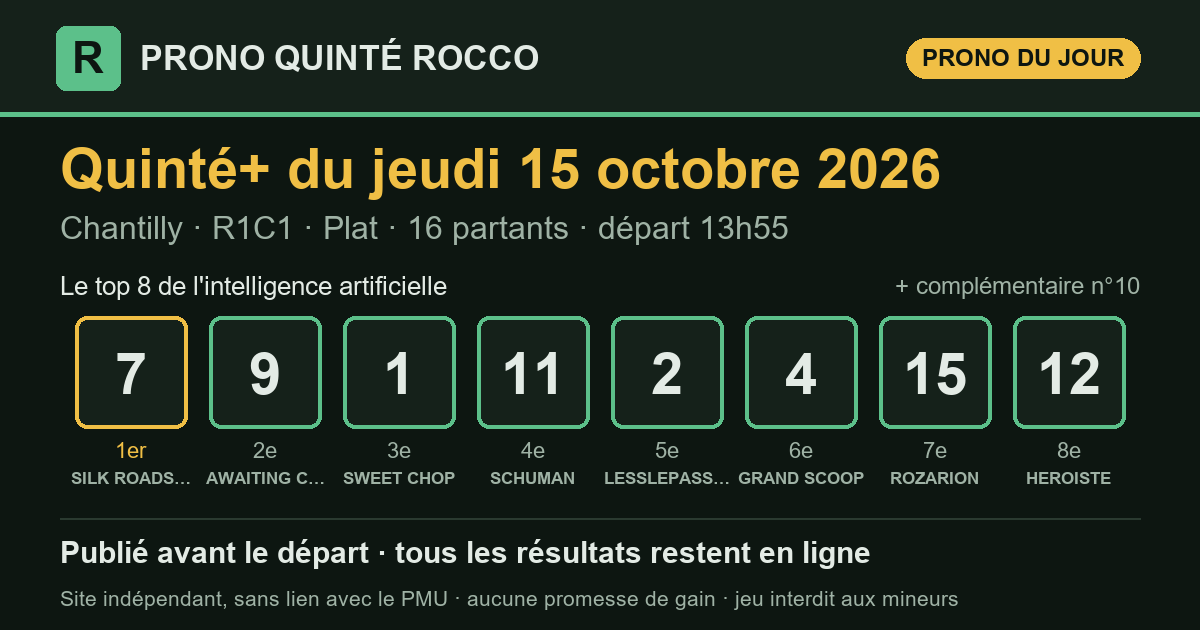
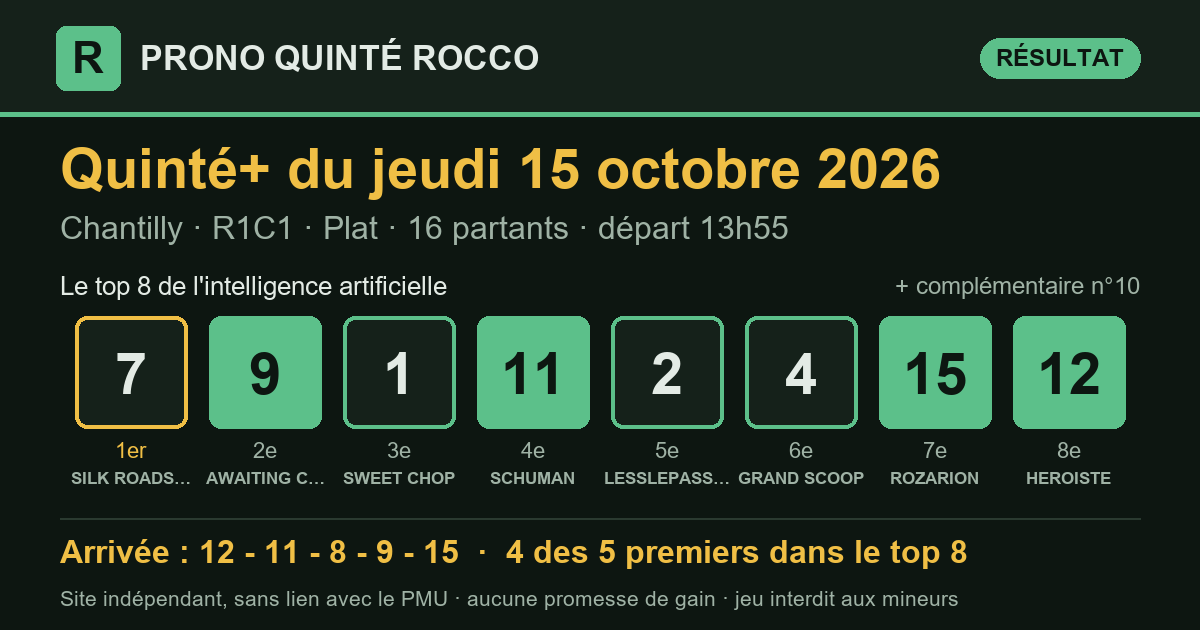
Prono Quinté+ 2026-10-15 Chantilly R1C1 — publié le 15/10/2026 14:57 (heure de Paris)

diff --git a/partants.html b/partants.html
@@ -3,7 +3,7 @@
 <head>
 <meta charset="utf-8">
 <meta name="viewport" content="width=device-width, initial-scale=1, viewport-fit=cover">
-<title>Partants du Quinté+ du jeudi 15 octobre 2026 — Prono Quinté Rocco</title>
+<title>Partants du Quinté+ du vendredi 16 octobre 2026 — Prono Quinté Rocco</title>
 <meta name="description" content="Les partants du prochain Quinté+ (programme officiel du PMU), avec le rang du prono IA et les liens vers les pronostics de la presse.">
 <link rel="canonical" href="https://prono-quinte-rocco.fr/partants.html">
 <link rel="stylesheet" href="style.css?v=3c55eb2c">
@@ -13,7 +13,7 @@
 <meta property="og:site_name" content="Prono Quinté Rocco">
 <meta property="og:locale" content="fr_FR">
 <meta property="og:type" content="website">
-<meta property="og:title" content="Partants du Quinté+ du jeudi 15 octobre 2026 — Prono Quinté Rocco">
+<meta property="og:title" content="Partants du Quinté+ du vendredi 16 octobre 2026 — Prono Quinté Rocco">
 <meta property="og:description" content="Les partants du prochain Quinté+ (programme officiel du PMU), avec le rang du prono IA et les liens vers les pronostics de la presse.">
 <meta property="og:url" content="https://prono-quinte-rocco.fr/partants.html">
 <meta name="twitter:card" content="summary">
@@ -29,100 +29,95 @@
   <p class="surtitre">Programme officiel du PMU</p>
   <h1>Les partants du prochain Quinté+</h1>
   <div class="fiche-course">
-    <p class="fiche-date">Jeudi 15 octobre 2026</p>
-    <div class="fiche-rc"><span class="pastille" title="Réunion 1">R1</span><span class="pastille" title="Course 1">C1</span><span class="fiche-nom">Prix de la Vierge de Lorette</span></div>
-    <p class="meta">Chantilly · Plat · 1 200 m · 16 partants</p>
-    <p class="fiche-depart">Départ <b>13:55</b> <span>heure de Paris</span></p>
+    <p class="fiche-date">Vendredi 16 octobre 2026</p>
+    <div class="fiche-rc"><span class="pastille" title="Réunion 1">R1</span><span class="pastille" title="Course 4">C4</span><span class="fiche-nom">Prix Themis</span></div>
+    <p class="meta">Vincennes · Trot_attele · 2 850 m · 15 partants</p>
+    <p class="fiche-depart">Départ <b>20:15</b> <span>heure de Paris</span></p>
   </div>
   <p class="surtitre">Les pronostics ailleurs sur le web</p>
-  <div class="liens"><a class="lien-ext" href="https://www.turfoo.fr/programmes-courses/261015/reunion1-chantilly/course1-prix-de-la-vierge-de-lorette/pronostics-presse/" rel="noopener" target="_blank"><b>Les pronostics de la presse →</b><span>sur Turfoo (site extérieur)</span></a><a class="lien-ext" href="https://www.geny.com/programme/2026-10-15" rel="noopener" target="_blank"><b>Partants et pronostics →</b><span>programme du jour sur Geny (site extérieur)</span></a></div>
+  <div class="liens"><a class="lien-ext" href="https://www.turfoo.fr/programmes-courses/261016/reunion1-vincennes/course4-prix-themis/pronostics-presse/" rel="noopener" target="_blank"><b>Les pronostics de la presse →</b><span>sur Turfoo (site extérieur)</span></a><a class="lien-ext" href="https://www.geny.com/programme/2026-10-16" rel="noopener" target="_blank"><b>Partants et pronostics →</b><span>programme du jour sur Geny (site extérieur)</span></a></div>
   <div class="liste-boite"><table class="liste-partants">
     <thead><tr><th>N°</th><th>Cheval</th><th class="cote"><span class="long">Cote du matin</span><span class="court">Cote</span></th>
     <th class="ia"><span class="long">Prono IA</span><span class="court">IA</span></th></tr></thead>
     <tbody><tr>
   <td><span class="tapis petit">1</span></td>
-  <td><span class="cheval">SWEET CHOP</span><span class="sous">A.LEMAITRE · A.MURPHY (S)</span></td>
-  <td class="cote num">10,0</td>
-  <td class="ia"><span class="etat place">3<sup>e</sup></span></td>
+  <td><span class="cheval">TRETIAK</span><span class="sous">D. THOMAIN · Mme Maria TORNQVIST</span></td>
+  <td class="cote num">—</td>
+  <td class="ia">—</td>
 </tr><tr>
   <td><span class="tapis petit">2</span></td>
-  <td><span class="cheval">LESSLEPASSER</span><span class="sous">PC.BOUDOT · MME S.LANSLOTS</span></td>
-  <td class="cote num">14,0</td>
-  <td class="ia"><span class="etat place">5<sup>e</sup></span></td>
+  <td><span class="cheval">KIPHYLE DESBOIS</span><span class="sous">LILIAN BERTIN · P.Y. ROCHARD</span></td>
+  <td class="cote num">—</td>
+  <td class="ia">—</td>
 </tr><tr>
   <td><span class="tapis petit">3</span></td>
-  <td><span class="cheval">MISTER CHANG</span><span class="sous">H.JOURNIAC · Y.BARBEROT (S)</span></td>
-  <td class="cote num">17,0</td>
+  <td><span class="cheval">EMINENT KRONOS</span><span class="sous">F. NIVARD · J. UNTERSTEINER</span></td>
+  <td class="cote num">—</td>
   <td class="ia">—</td>
 </tr><tr>
   <td><span class="tapis petit">4</span></td>
-  <td><span class="cheval">GRAND SCOOP</span><span class="sous">E.HARDOUIN · G.MOSSE (S)</span></td>
-  <td class="cote num">8,4</td>
-  <td class="ia"><span class="etat place">6<sup>e</sup></span></td>
+  <td><span class="cheval">KISS ME AGAIN</span><span class="sous">A. BARRIER · K. CHAMPENOIS</span></td>
+  <td class="cote num">—</td>
+  <td class="ia">—</td>
 </tr><tr>
   <td><span class="tapis petit">5</span></td>
-  <td><span class="cheval">HELLO CAREL</span><span class="sous">M.MARQUETTE · G.MOSSE (S)</span></td>
-  <td class="cote num">22,0</td>
+  <td><span class="cheval">KOMERE DE CORDAY</span><span class="sous">GUILLAUME MARTIN · ARNAUD DESMOTTES</span></td>
+  <td class="cote num">—</td>
   <td class="ia">—</td>
 </tr><tr>
   <td><span class="tapis petit">6</span></td>
-  <td><span class="cheval">MAI DIRE MAI</span><span class="sous">C.DEMURO · G.BIETOLINI</span></td>
-  <td class="cote num">17,0</td>
+  <td><span class="cheval">DOMENIK JET</span><span class="sous">M. ABRIVARD · W. NIMCZYK</span></td>
+  <td class="cote num">—</td>
   <td class="ia">—</td>
 </tr><tr>
   <td><span class="tapis petit">7</span></td>
-  <td><span class="cheval">SILK ROADSTER</span><span class="sous">M.VELON · A.MURPHY (S)</span></td>
-  <td class="cote num">6,6</td>
-  <td class="ia"><span class="etat place">1<sup>er</sup></span></td>
+  <td><span class="cheval">KEROSEN DU GERS</span><span class="sous">E. LELIEVRE · E. LELIEVRE</span></td>
+  <td class="cote num">—</td>
+  <td class="ia">—</td>
 </tr><tr>
   <td><span class="tapis petit">8</span></td>
-  <td><span class="cheval">PRINCE AUBOIS</span><span class="sous">T.TRULLIER · MME S.PENOT</span></td>
-  <td class="cote num">36,0</td>
+  <td><span class="cheval">KERALDO</span><span class="sous">CH. MARTENS · A. VANBERGHEN</span></td>
+  <td class="cote num">—</td>
   <td class="ia">—</td>
 </tr><tr>
   <td><span class="tapis petit">9</span></td>
-  <td><span class="cheval">AWAITING CHRISTMAS</span><span class="sous">T.BACHELOT · V.LUKA</span></td>
-  <td class="cote num">8,1</td>
-  <td class="ia"><span class="etat place">2<sup>e</sup></span></td>
+  <td><span class="cheval">MAX OCCAGNES</span><span class="sous">D. LOCQUENEUX · D. LOCQUENEUX</span></td>
+  <td class="cote num">—</td>
+  <td class="ia">—</td>
 </tr><tr>
   <td><span class="tapis petit">10</span></td>
-  <td><span class="cheval">ROYALWOOD</span><span class="sous">F.VALLE SKAR · MME C.BARANDE BARBE</span></td>
-  <td class="cote num">10,0</td>
-  <td class="ia"><span class="etat place">compl.</span></td>
+  <td><span class="cheval">RED HOT ROADSTER</span><span class="sous">F. OUVRIE · J. WESTHOLM</span></td>
+  <td class="cote num">—</td>
+  <td class="ia">—</td>
 </tr><tr>
   <td><span class="tapis petit">11</span></td>
-  <td><span class="cheval">SCHUMAN</span><span class="sous">A.MADAMET · F.MONNIER (S)</span></td>
-  <td class="cote num">8,7</td>
-  <td class="ia"><span class="etat place">4<sup>e</sup></span></td>
+  <td><span class="cheval">READLY LAVEC</span><span class="sous">B. ROCHARD · O.J. ANDERSSON</span></td>
+  <td class="cote num">—</td>
+  <td class="ia">—</td>
 </tr><tr>
   <td><span class="tapis petit">12</span></td>
-  <td><span class="cheval">HEROISTE</span><span class="sous">M.BARZALONA · FH.GRAFFARD (S)</span></td>
-  <td class="cote num">24,0</td>
-  <td class="ia"><span class="etat place">8<sup>e</sup></span></td>
+  <td><span class="cheval">JALENDRA DE MALAC</span><span class="sous">M. MOTTIER · A.PH. GRIMAULT</span></td>
+  <td class="cote num">—</td>
+  <td class="ia">—</td>
 </tr><tr>
   <td><span class="tapis petit">13</span></td>
-  <td><span class="cheval">ASHERAH</span><span class="sous">A.CRASTUS · J.REYNIER (S)</span></td>
-  <td class="cote num">28,0</td>
+  <td><span class="cheval">COLBERT WF</span><span class="sous">E. RAFFIN · H.E. BONDO</span></td>
+  <td class="cote num">—</td>
   <td class="ia">—</td>
 </tr><tr>
   <td><span class="tapis petit">14</span></td>
-  <td><span class="cheval">YOKEN</span><span class="sous">S.PASQUIER · MME J.DUPONT-FAHN</span></td>
-  <td class="cote num">30,0</td>
+  <td><span class="cheval">KAMEHAMEHA</span><span class="sous">A. LHERETE · Antoine LHERETE</span></td>
+  <td class="cote num">—</td>
   <td class="ia">—</td>
 </tr><tr>
   <td><span class="tapis petit">15</span></td>
-  <td><span class="cheval">ROZARION</span><span class="sous">A.HAMELIN · M.DELZANGLES</span></td>
-  <td class="cote num">14,0</td>
-  <td class="ia"><span class="etat place">7<sup>e</sup></span></td>
-</tr><tr>
-  <td><span class="tapis petit">16</span></td>
-  <td><span class="cheval">SIMPLY LOVELY</span><span class="sous">L.GALLO · JM.BEGUIGNE</span></td>
-  <td class="cote num">32,0</td>
+  <td><span class="cheval">ELEGANCE KRONOS</span><span class="sous">A. ABRIVARD · L.CL. ABRIVARD</span></td>
+  <td class="cote num">—</td>
   <td class="ia">—</td>
 </tr></tbody>
   </table></div>
-  <p class="meta">Le rang du prono IA est celui publié sur ce site. Sous chaque cheval : jockey · entraîneur. Partants et cotes : programme
-  officiel du PMU, lu le 15/10 à 09:02 (heure de Paris). NP = non-partant.</p>
+  <p class="meta">Le prono IA de cette course sera publié le matin de la course, avant le départ. Sous chaque cheval : driver · entraîneur. Partants et cotes : programme
+  officiel du PMU, lu le 15/10 à 14:57 (heure de Paris). NP = non-partant.</p>
 </section>
 </main>
 <footer class="pied">

diff --git a/index.html b/index.html
@@ -16,7 +16,7 @@
 <meta property="og:title" content="Pronostic Quinté+ du jeudi 15 octobre 2026 — Prono Quinté Rocco">
 <meta property="og:description" content="Le pronostic du Quinté+ par intelligence artificielle, publié avant le départ, avec tous les résultats et le rendement réel.">
 <meta property="og:url" content="https://prono-quinte-rocco.fr/">
-<meta property="og:image" content="https://prono-quinte-rocco.fr/partage/2026-10-15.png?v=48c002b9">
+<meta property="og:image" content="https://prono-quinte-rocco.fr/partage/2026-10-15.png?v=79094276">
 <meta property="og:image:type" content="image/png">
 <meta property="og:image:width" content="1200">
 <meta property="og:image:height" content="630">
@@ -31,15 +31,15 @@
 </header>
 <main>
 <section class="une" aria-labelledby="t-jour">
-  <p class="surtitre">Quinté+ du jour</p>
+  <p class="surtitre">Dernier Quinté+</p>
   <h1 id="t-jour">Le prono du Quinté+, résultats compris</h1>
   <p class="chapo">Chaque matin, une intelligence artificielle classe les partants du
   Quinté+. Le classement est publié avant le départ, puis comparé à l'arrivée
   officielle. Tous les résultats restent en ligne, les bons comme les mauvais.</p>
   <article class="carte-course">
-  <div class="tete"><h2>Jeudi 15 octobre 2026</h2><span class="etat attente">arrivée en attente</span></div>
+  <div class="tete"><h2>Jeudi 15 octobre 2026</h2><span class="etat place">4 des 5 premiers dans le top 8</span></div>
   <p class="meta">Chantilly · <strong>R1C1</strong> · Plat · 16 partants · lisibilité <span class="note" aria-label="note 2 sur 5"><i class="on"></i><i class="on"></i><i class=""></i><i class=""></i><i class=""></i></span> 2/5</p>
-  <ol class="partants" aria-label="Classement du prono"><li><span class="rang">1<sup>er</sup></span><span class="tapis ">7</span><span class="nom">SILK ROADSTER</span></li><li><span class="rang">2<sup>e</sup></span><span class="tapis ">9</span><span class="nom">AWAITING CHRISTMAS</span></li><li><span class="rang">3<sup>e</sup></span><span class="tapis ">1</span><span class="nom">SWEET CHOP</span></li><li><span class="rang">4<sup>e</sup></span><span class="tapis ">11</span><span class="nom">SCHUMAN</span></li><li><span class="rang">5<sup>e</sup></span><span class="tapis ">2</span><span class="nom">LESSLEPASSER</span></li><li><span class="rang">6<sup>e</sup></span><span class="tapis ">4</span><span class="nom">GRAND SCOOP</span></li><li><span class="rang">7<sup>e</sup></span><span class="tapis ">15</span><span class="nom">ROZARION</span></li><li><span class="rang">8<sup>e</sup></span><span class="tapis ">12</span><span class="nom">HEROISTE</span></li><li><span class="rang">compl.</span><span class="tapis creux">10</span><span class="nom">ROYALWOOD</span></li></ol>
+  <ol class="partants" aria-label="Classement du prono"><li><span class="rang">1<sup>er</sup></span><span class="tapis ">7</span><span class="nom">SILK ROADSTER</span></li><li><span class="rang">2<sup>e</sup></span><span class="tapis plein">9</span><span class="nom">AWAITING CHRISTMAS</span></li><li><span class="rang">3<sup>e</sup></span><span class="tapis ">1</span><span class="nom">SWEET CHOP</span></li><li><span class="rang">4<sup>e</sup></span><span class="tapis plein">11</span><span class="nom">SCHUMAN</span></li><li><span class="rang">5<sup>e</sup></span><span class="tapis ">2</span><span class="nom">LESSLEPASSER</span></li><li><span class="rang">6<sup>e</sup></span><span class="tapis ">4</span><span class="nom">GRAND SCOOP</span></li><li><span class="rang">7<sup>e</sup></span><span class="tapis plein">15</span><span class="nom">ROZARION</span></li><li><span class="rang">8<sup>e</sup></span><span class="tapis plein">12</span><span class="nom">HEROISTE</span></li><li><span class="rang">compl.</span><span class="tapis creux">10</span><span class="nom">ROYALWOOD</span></li></ol>
   <div class="pied-carte"><span>Analysé le 15/10 à 08:47 · en ligne le 15/10 à 09:02 · départ à 13:55 (heure de Paris)</span><span><a href="quinte/2026-10-15.html">Détail de la course</a></span></div>
 </article>
   <div class="legende"><span><span class="tapis plein petit">4</span> numéro dans les 5 premiers</span>
@@ -62,7 +62,7 @@
 </section>
 <section class="bilan" aria-labelledby="t-bilan">
   <h2 id="t-bilan">Le bilan depuis le 8 septembre 2026</h2>
-  <div class="tableau chiffres"><div class="case"><span class="gros ">74 %</span><span class="lib">des arrivants trouvés dans le top 8</span><span class="ref">un top 8 tiré au hasard : 51 %</span></div><div class="case"><span class="gros ">86 %</span><span class="lib">des gagnants présents dans le top 8</span><span class="ref"></span></div><div class="case"><span class="gros ">53 %</span><span class="lib">1er du prono placé</span><span class="ref">sur 36 Quintés</span></div><div class="case"><span class="gros perte">0,96 €</span><span class="lib">rendus pour 1 € joué placé sur le 1er</span><span class="ref">rapports officiels PMU</span></div><div class="case"><span class="gros perte">0,43 €</span><span class="lib">rendus pour 1 € joué en Quinté+ combiné top 8</span><span class="ref">56 combinaisons, rapports PMU.fr, sur 36 Quintés</span></div></div>
+  <div class="tableau chiffres"><div class="case"><span class="gros ">75 %</span><span class="lib">des arrivants trouvés dans le top 8</span><span class="ref">un top 8 tiré au hasard : 51 %</span></div><div class="case"><span class="gros ">86 %</span><span class="lib">des gagnants présents dans le top 8</span><span class="ref"></span></div><div class="case"><span class="gros ">53 %</span><span class="lib">1er du prono placé</span><span class="ref">sur 36 Quintés</span></div><div class="case"><span class="gros perte">0,96 €</span><span class="lib">rendus pour 1 € joué placé sur le 1er</span><span class="ref">rapports officiels PMU</span></div><div class="case"><span class="gros perte">0,45 €</span><span class="lib">rendus pour 1 € joué en Quinté+ combiné top 8</span><span class="ref">56 combinaisons, rapports PMU.fr, sur 37 Quintés</span></div></div>
   <p class="avertissement">Moins de 1 € rendu pour 1 € joué : suivre ce prono à la lettre fait <strong>perdre de l'argent</strong> sur cette période. Il sert à analyser une course, pas à promettre un gain.</p>
 </section>
 </main>

diff --git a/quinte/2026-10-15.html b/quinte/2026-10-15.html
@@ -16,7 +16,7 @@
 <meta property="og:title" content="Pronostic Quinté+ du jeudi 15 octobre 2026 à Chantilly — Prono Quinté Rocco">
 <meta property="og:description" content="Prono Quinté+ du jeudi 15 octobre 2026 (Chantilly) : top 8, arrivée officielle et rapports PMU.fr.">
 <meta property="og:url" content="https://prono-quinte-rocco.fr/quinte/2026-10-15.html">
-<meta property="og:image" content="https://prono-quinte-rocco.fr/partage/2026-10-15.png?v=48c002b9">
+<meta property="og:image" content="https://prono-quinte-rocco.fr/partage/2026-10-15.png?v=79094276">
 <meta property="og:image:type" content="image/png">
 <meta property="og:image:width" content="1200">
 <meta property="og:image:height" content="630">
@@ -35,11 +35,19 @@
   <h1>Pronostic Quinté+ du jeudi 15 octobre 2026</h1>
   <p class="chapo">Chantilly · R1C1 · Plat · 16 partants</p>
   <article class="carte-course">
-  <div class="tete"><h2>Le prono : top 8 et complémentaire</h2><span class="etat attente">arrivée en attente</span></div>
+  <div class="tete"><h2>Le prono : top 8 et complémentaire</h2><span class="etat place">4 des 5 premiers dans le top 8</span></div>
   <p class="meta">Chantilly · <strong>R1C1</strong> · Plat · 16 partants · lisibilité <span class="note" aria-label="note 2 sur 5"><i class="on"></i><i class="on"></i><i class=""></i><i class=""></i><i class=""></i></span> 2/5</p>
-  <ol class="partants" aria-label="Classement du prono"><li><span class="rang">1<sup>er</sup></span><span class="tapis ">7</span><span class="nom">SILK ROADSTER</span></li><li><span class="rang">2<sup>e</sup></span><span class="tapis ">9</span><span class="nom">AWAITING CHRISTMAS</span></li><li><span class="rang">3<sup>e</sup></span><span class="tapis ">1</span><span class="nom">SWEET CHOP</span></li><li><span class="rang">4<sup>e</sup></span><span class="tapis ">11</span><span class="nom">SCHUMAN</span></li><li><span class="rang">5<sup>e</sup></span><span class="tapis ">2</span><span class="nom">LESSLEPASSER</span></li><li><span class="rang">6<sup>e</sup></span><span class="tapis ">4</span><span class="nom">GRAND SCOOP</span></li><li><span class="rang">7<sup>e</sup></span><span class="tapis ">15</span><span class="nom">ROZARION</span></li><li><span class="rang">8<sup>e</sup></span><span class="tapis ">12</span><span class="nom">HEROISTE</span></li><li><span class="rang">compl.</span><span class="tapis creux">10</span><span class="nom">ROYALWOOD</span></li></ol>
+  <ol class="partants" aria-label="Classement du prono"><li><span class="rang">1<sup>er</sup></span><span class="tapis ">7</span><span class="nom">SILK ROADSTER</span></li><li><span class="rang">2<sup>e</sup></span><span class="tapis plein">9</span><span class="nom">AWAITING CHRISTMAS</span></li><li><span class="rang">3<sup>e</sup></span><span class="tapis ">1</span><span class="nom">SWEET CHOP</span></li><li><span class="rang">4<sup>e</sup></span><span class="tapis plein">11</span><span class="nom">SCHUMAN</span></li><li><span class="rang">5<sup>e</sup></span><span class="tapis ">2</span><span class="nom">LESSLEPASSER</span></li><li><span class="rang">6<sup>e</sup></span><span class="tapis ">4</span><span class="nom">GRAND SCOOP</span></li><li><span class="rang">7<sup>e</sup></span><span class="tapis plein">15</span><span class="nom">ROZARION</span></li><li><span class="rang">8<sup>e</sup></span><span class="tapis plein">12</span><span class="nom">HEROISTE</span></li><li><span class="rang">compl.</span><span class="tapis creux">10</span><span class="nom">ROYALWOOD</span></li></ol>
   <div class="pied-carte"><span>Analysé le 15/10 à 08:47 · en ligne le 15/10 à 09:02 · départ à 13:55 (heure de Paris)</span><span></span></div>
 </article>
+<section class="carte-course" aria-labelledby="t-arr">
+  <div class="tete"><h2 id="t-arr">Arrivée officielle</h2></div>
+  <div class="rangee"><span class="tapis plein" title="1er">12</span><span class="tapis plein" title="2e">11</span><span class="tapis creux" title="3e">8</span><span class="tapis plein" title="4e">9</span><span class="tapis plein" title="5e">15</span></div>
+  <div class="deux">
+    <div><h3>Ce qu'aurait rendu le prono</h3><dl class="kv"><dt>1 € placé sur le 1er (n°7)</dt><dd>rapport manquant</dd><dt>1 € gagnant sur le 1er</dt><dd>rapport manquant</dd><dt>Quinté+ combiné top 8 (mise 112 €)</dt><dd>136,80 €</dd><dt>dont</dt><dd>Bonus 4sur5 × 4</dd></dl></div>
+    <div><h3>Rapports officiels</h3><dl class="kv"><dt>e-Quinté+ Désordre (2 €)</dt><dd>2 173,40 €</dd><dt>e-Bonus 4sur5 (2 €)</dt><dd>34,20 €</dd><dt>e-Bonus 3 (2 €)</dt><dd>28,60 €</dd></dl></div>
+  </div>
+</section>
 </section>
 </main>
 <footer class="pied">

diff --git a/resultats.html b/resultats.html
@@ -39,8 +39,8 @@
     <tbody><tr>
   <td class="c-date"><a href="quinte/2026-10-15.html">15/10</a></td>
   <td class="c-course">Chantilly<br><span class="meta">R1C1 · Plat</span></td>
-  <td data-label="Top 8 du prono"><div class="rangee"><span class="tapis petit">7</span><span class="tapis petit">9</span><span class="tapis petit">1</span><span class="tapis petit">11</span><span class="tapis petit">2</span><span class="tapis petit">4</span><span class="tapis petit">15</span><span class="tapis petit">12</span></div></td><td data-label="Arrivée"><span class="etat attente">en attente</span></td>
-  <td class="num" data-label="Trouvés">—</td><td data-label="1er du prono"><span class="etat attente">—</span></td><td class="mont" data-label="Quinté+ top 8 (mise 112 €)">—</td>
+  <td data-label="Top 8 du prono"><div class="rangee"><span class="tapis petit">7</span><span class="tapis plein petit">9</span><span class="tapis petit">1</span><span class="tapis plein petit">11</span><span class="tapis petit">2</span><span class="tapis petit">4</span><span class="tapis plein petit">15</span><span class="tapis plein petit">12</span></div></td><td data-label="Arrivée"><div class="rangee"><span class="tapis plein petit" title="1er">12</span><span class="tapis plein petit" title="2e">11</span><span class="tapis creux petit" title="3e">8</span><span class="tapis plein petit" title="4e">9</span><span class="tapis plein petit" title="5e">15</span></div></td>
+  <td class="num" data-label="Trouvés">4/5</td><td data-label="1er du prono"><span class="etat non">non placé</span></td><td class="mont " data-label="Quinté+ top 8 (mise 112 €)">136,80 €</td>
 </tr><tr>
   <td class="c-date"><a href="quinte/2026-10-14.html">14/10</a></td>
   <td class="c-course">Reims<br><span class="meta">R1C1 · Attelé</span></td>
@@ -226,7 +226,7 @@
 </section>
 <section class="bilan" aria-labelledby="t-bilan">
   <h2 id="t-bilan">Le bilan depuis le 8 septembre 2026</h2>
-  <div class="tableau chiffres"><div class="case"><span class="gros ">74 %</span><span class="lib">des arrivants trouvés dans le top 8</span><span class="ref">un top 8 tiré au hasard : 51 %</span></div><div class="case"><span class="gros ">86 %</span><span class="lib">des gagnants présents dans le top 8</span><span class="ref"></span></div><div class="case"><span class="gros ">53 %</span><span class="lib">1er du prono placé</span><span class="ref">sur 36 Quintés</span></div><div class="case"><span class="gros perte">0,96 €</span><span class="lib">rendus pour 1 € joué placé sur le 1er</span><span class="ref">rapports officiels PMU</span></div><div class="case"><span class="gros perte">0,43 €</span><span class="lib">rendus pour 1 € joué en Quinté+ combiné top 8</span><span class="ref">56 combinaisons, rapports PMU.fr, sur 36 Quintés</span></div></div>
+  <div class="tableau chiffres"><div class="case"><span class="gros ">75 %</span><span class="lib">des arrivants trouvés dans le top 8</span><span class="ref">un top 8 tiré au hasard : 51 %</span></div><div class="case"><span class="gros ">86 %</span><span class="lib">des gagnants présents dans le top 8</span><span class="ref"></span></div><div class="case"><span class="gros ">53 %</span><span class="lib">1er du prono placé</span><span class="ref">sur 36 Quintés</span></div><div class="case"><span class="gros perte">0,96 €</span><span class="lib">rendus pour 1 € joué placé sur le 1er</span><span class="ref">rapports officiels PMU</span></div><div class="case"><span class="gros perte">0,45 €</span><span class="lib">rendus pour 1 € joué en Quinté+ combiné top 8</span><span class="ref">56 combinaisons, rapports PMU.fr, sur 37 Quintés</span></div></div>
   <p class="avertissement">Moins de 1 € rendu pour 1 € joué : suivre ce prono à la lettre fait <strong>perdre de l'argent</strong> sur cette période. Il sert à analyser une course, pas à promettre un gain.</p>
 </section>
 </main>
